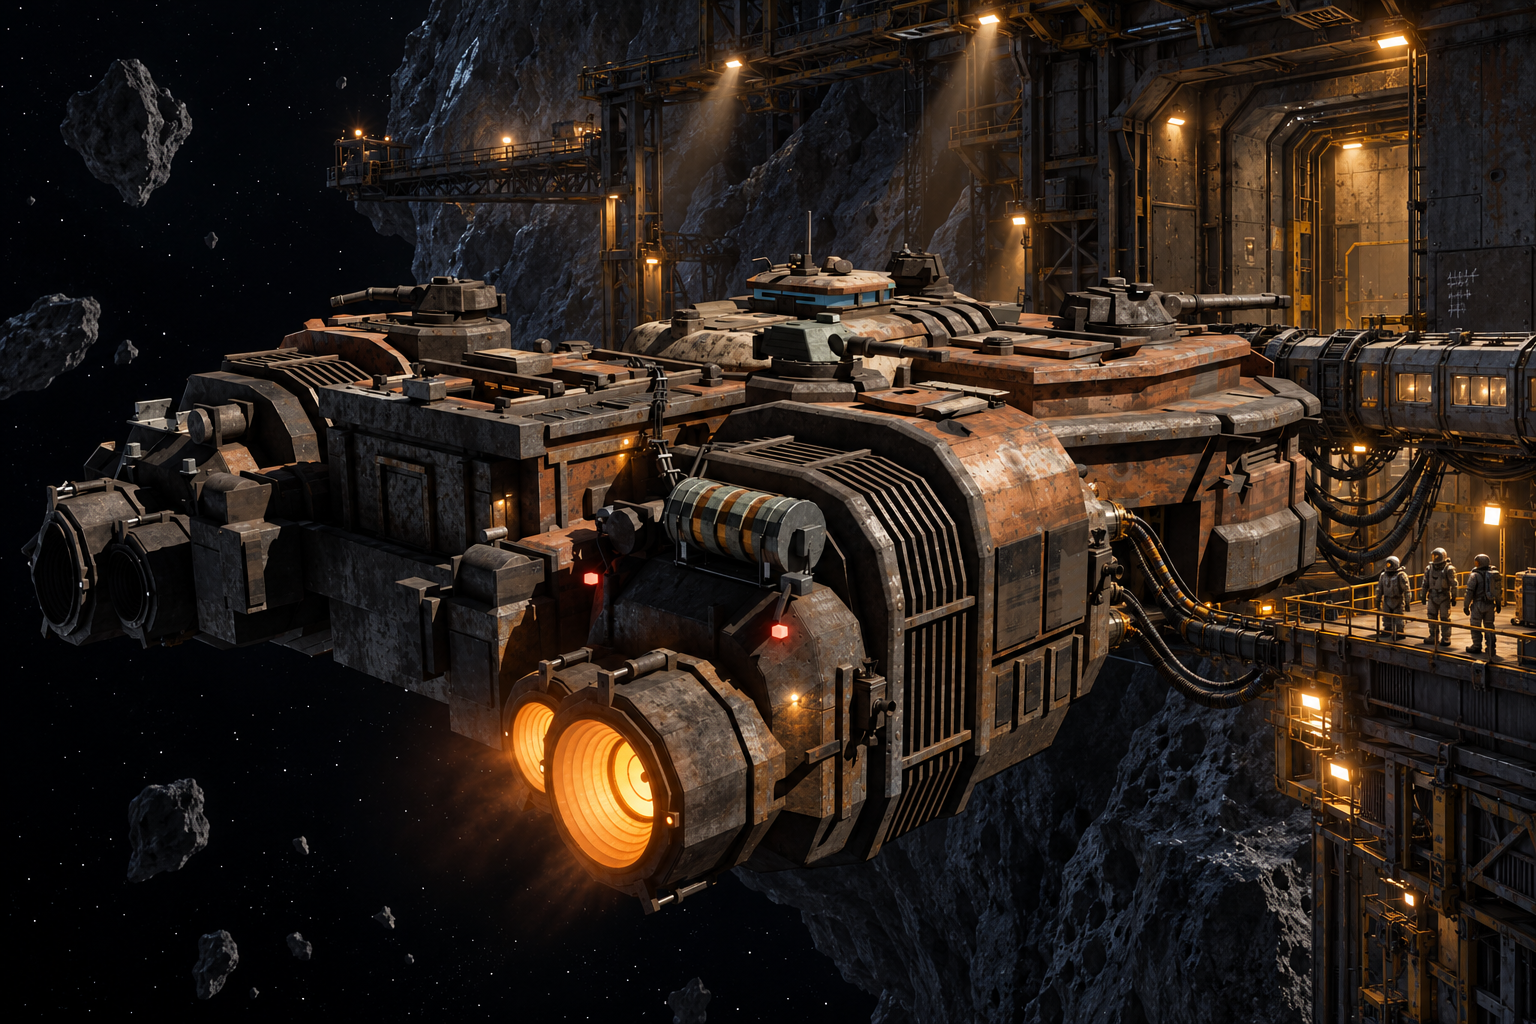
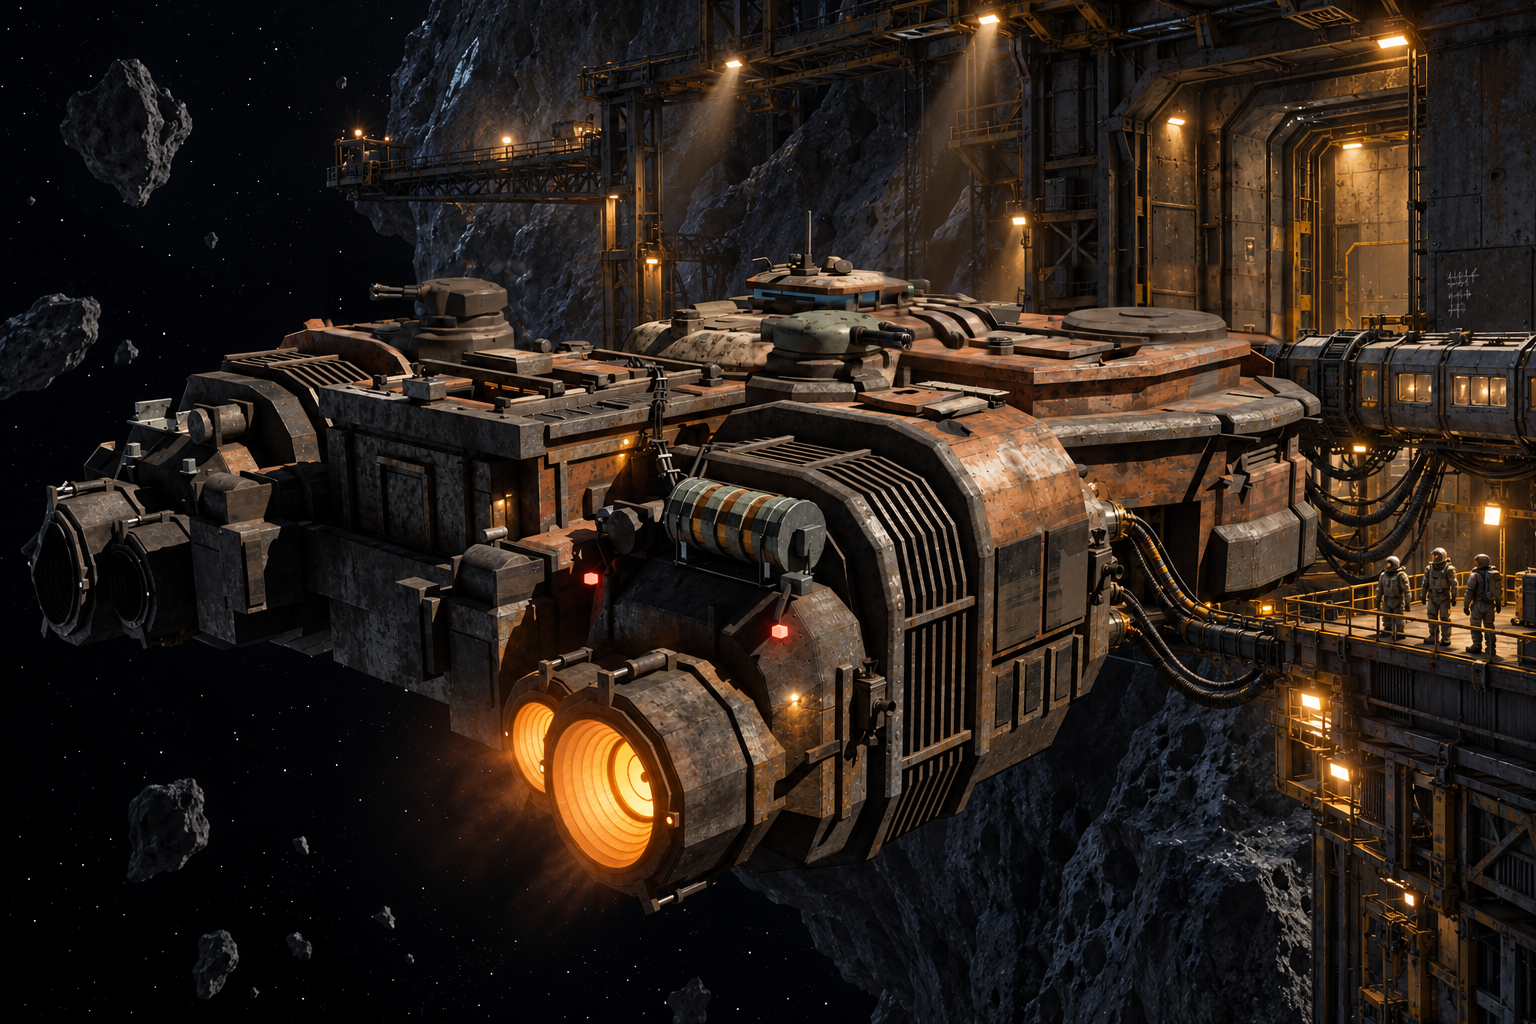
Prologue P4: ship the two-Vulcan turrets (owner approved 2026-10-20)
The candidate becomes raising-her.master.png. Its briefs and provenance are
folded into the master's, and the page is repacked. Only raising-her.jpg
moved. The three generations and their provenance stay beside it. The READMEs
now say P4 shows build dc62710dc.

Changed region(s): [[0.4688, 0.2188, 0.6562, 0.375], [0.6875, 0.25, 0.8438, 0.3438], [0.2188, 0.25, 0.3438, 0.3438]]

diff --git a/art-source/company-prologue/story-stills/guides/p4_turrets.py b/art-source/company-prologue/story-stills/guides/p4_turrets.py
@@ -22,9 +22,10 @@ lays a generation back over the master through those boxes, feathered inward onl
 the generation's small offset), so the dock, the figures and the rest of the ship stay
 pixel-identical. It prints the largest change outside the boxes, which must be zero.
 
-Run on 2026-10-20 against the 2026-10-19 master: three generations (see
-raising-her-v2.candidate.png.provenance.json); the candidate is gen3, a clean-up pass over gen2's
-composite (guides/p4-turrets-gen2-composite.png).
+Run on 2026-10-20 against the 2026-10-19 master (`git show 968bb9112:<story-stills>/raising-her.master.png`):
+three generations (see raising-her.master.png.provenance.json); gen3, a clean-up pass over gen2's
+composite (guides/p4-turrets-gen2-composite.png), was composed and approved (2026-10-20), so the
+current master is the result and rerunning against it repeats nothing useful.
 """
 import argparse
 import sys

diff --git a/art-source/company-prologue/README.md b/art-source/company-prologue/README.md
@@ -6,7 +6,7 @@ arrival cinematic. These are authoring sources; only the packed JPEGs under
 
 | Location | Purpose |
 |---|---|
-| [story-stills/](story-stills/) | Ten story-frame masters with their exact generation prompts. Used by the campaign intro and yard UI. P1, P4, P5, P6 and P8 are painted over guide renders of the real Second Wind and its bridge (`guides/prologue_guides.py`; people from their portraits, P6's Castle over a grey stand-in at her height); P2 and P3 are new compositions; P3's freighter is the real Colossus (`guides/colossus_guides.py`), its thrust from its six drive bells (`guides/p3_thrust.py`). |
+| [story-stills/](story-stills/) | Ten story-frame masters with their exact generation prompts. Used by the campaign intro and yard UI. P1, P4, P5, P6 and P8 are painted over guide renders of the real Second Wind and its bridge (`guides/prologue_guides.py`; people from their portraits, P6's Castle over a grey stand-in at her height); P2 and P3 are new compositions; P3's freighter is the real Colossus (`guides/colossus_guides.py`), its thrust from its six drive bells (`guides/p3_thrust.py`); P4's turrets are the two-Vulcan Second Wind of build dc62710dc, patched (`guides/p4_turrets.py`). |
 | [pack.ps1](pack.ps1) | Packs only `story-stills/*.master.png`: complete 3:2 frames, 1200x800 JPEG, quality 85, maximum 400 KiB each. |
 | `second-wind-hull.reference.png`, `second-wind-design-v1/v2/v3.reference.png` and adjacent prompts | Original hull and design evolution. V3 is the accepted clean/medium geometry reference; earlier sheets remain useful reference art. |
 | [second-wind-geometry/](second-wind-geometry/) | The single accepted clean-hull geometry source (V3 revision), renders and coordinate contract. Older V2 reference images are under `reference-history/v2/`; its obsolete model and builders were removed. |

diff --git a/art-source/company-prologue/second-wind-cinematic/README.md b/art-source/company-prologue/second-wind-cinematic/README.md
@@ -104,7 +104,7 @@ match.
 **Post-cinematic pictures** (`../yard-stills/`, the Nessa character sheet): Y1 yard
 with Nessa's cut-out layered on is in the game. Nessa is Kilo Nine's forewoman, about
 52, text only (Castle relays her). The prologue pages P1 to P6 and P8 are
-approved and shipped; P3's Colossus repaint shipped 2026-10-20 with its thrust from the six drive bells. P7 (cargo billets) and Y2
+approved and shipped; P3's Colossus repaint shipped 2026-10-20 with its thrust from the six drive bells. P4's turrets were repainted to build dc62710dc (two Vulcans, the other mounts capped) and shipped 2026-10-20; P5 shows no mount. P7 (cargo billets) and Y2
 (berths fitted) are repainted as a before/after pair and in the game. Not done: a
 picture of Nessa's wall of seals, and C5's crowd still draws a dark-coated stand-in for her.
 
